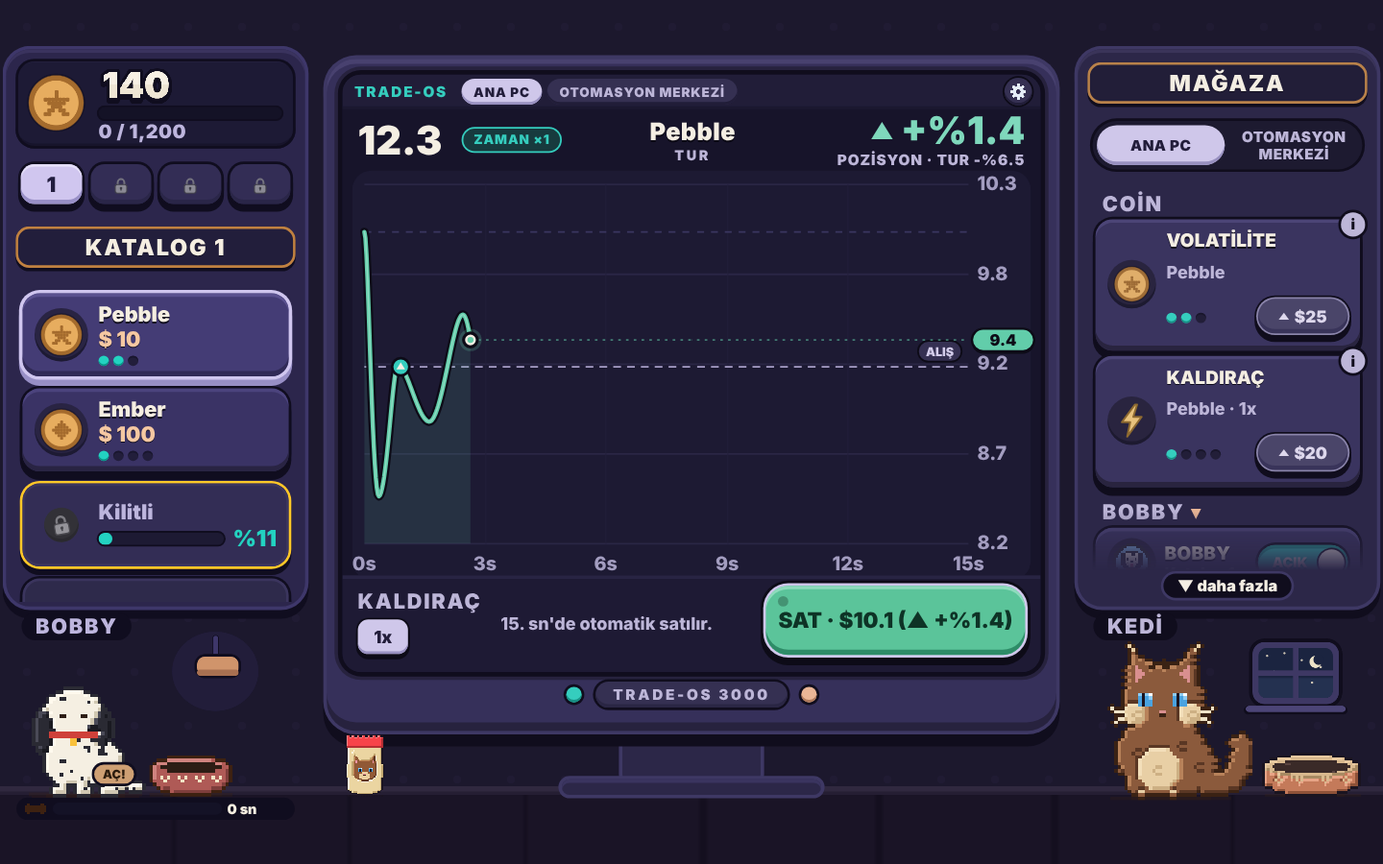
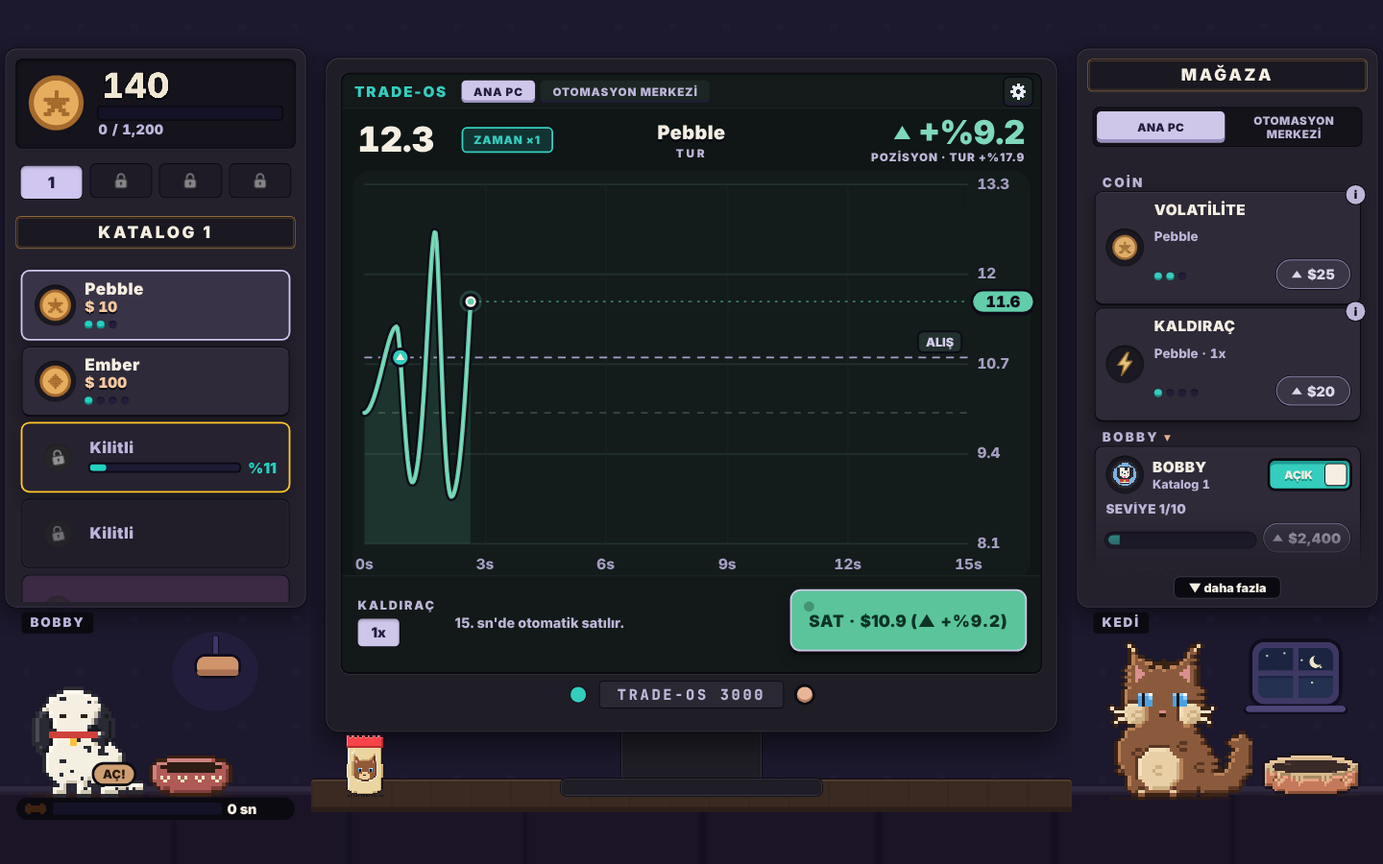
Tasarım Tur2 Adım 5: olgun 'gece yarısı trader masası', masaüstü ölçüleri, odometre bakiye, termal fiş, mama ease-out — smoke 63/63
Claude-Session: https://claude.ai/code/session_01VDVDeJVYoXzWZHeVKGLAfX

diff --git a/index.html b/index.html
@@ -1038,6 +1038,134 @@ body.rm .pl{animation:none!important;transform:translate(-50%,-50%)!important}
 #stage.tel .info{top:12px!important;right:18px!important}#stage.tel #right .go{height:80px!important}#stage.tel #right .sc:not(.bob):not(.rcoin) .sm b{padding-right:60px!important}
 #stage.tel #right .go{z-index:2}#stage.tel .info{z-index:3}
 #cico{image-rendering:auto!important}
+
+/* =====================================================================
+   TUR 2 / ADIM 5 — "Gece yarısı trader masası": olgun malzeme, ince gölge, sıkı tipografi
+   Grafit kasa paneller · cam yeşili terminal ekranı · koyu ceviz masa · kâğıt fiyat etiketi · termal fiş.
+   Köşeler 6–10 px, konturlar 1 px, gölgeler ince (bulanık kısa gölge; glow yok). Masaüstü ölçüleri küçük; telefon (#stage.tel) büyük kalır.
+   ===================================================================== */
+:root{--k-fr:"Inter","SF Pro Text","Segoe UI",system-ui,Roboto,"Helvetica Neue",Arial,sans-serif;
+ --k-hd:"Bahnschrift SemiBold SemiConden","Bahnschrift","DIN Condensed","Avenir Next Condensed","Roboto Condensed","Arial Narrow",var(--k-fr);
+ --k-mono:"JetBrains Mono","SF Mono","Cascadia Mono","Roboto Mono",ui-monospace,Menlo,Consolas,monospace;
+ --k-pn:#24212C;--k-cd:#2E2A37;--k-cdl:#3A3545;--k-cde:#1E1B25;--k-rim:#3A3646;--k-ol:#0B0A10;--k-scr:#0F1615;
+ --m-sh:0 0 0 1px #0B0A10,0 2px 0 #0B0A10,0 6px 14px rgba(0,0,0,.35);--m-hi:inset 0 1px 0 rgba(255,255,255,.06);
+ --m-paper:#E6DDC8;--m-paperd:#B9AE95;--m-ink:#2A2218}
+body{font-variant-numeric:tabular-nums}
+/* paneller: grafit kasa */
+#left::before,#right::before{border-radius:12px!important;background:var(--k-pn)!important;box-shadow:0 0 0 1px #3A3646,0 0 0 2px #0B0A10,0 10px 24px rgba(0,0,0,.45),var(--m-hi)!important}
+#cashp{border-radius:8px!important;background:#15131A!important;box-shadow:inset 0 0 0 1px #0B0A10,inset 0 2px 6px rgba(0,0,0,.5),0 1px 0 rgba(255,255,255,.05)!important}
+#cbar,#ebar,.br.en .sg,#pbs,.tk .lkp .lbar{border-radius:3px!important}
+/* başlık plakaları: gravürlü metal plaka, condensed büyük harf */
+.sign,#sign,#msign,body.soft .sign,#robsec .rsign{border-radius:6px!important;background:#1A1820!important;font-family:var(--k-hd)!important;letter-spacing:3px!important;text-shadow:0 1px 0 #000!important;
+ box-shadow:inset 0 0 0 1px #8E6A42,inset 0 0 0 2px #1A1820,inset 0 0 0 3px #4A3A2C,0 1px 0 rgba(255,255,255,.05)!important}
+.shd,#right .shd{font-family:var(--k-hd)!important;letter-spacing:2.5px!important}
+/* kartlar */
+.tk,body.soft .tk,.sc,body.soft .sc,.rc,body.soft .rc{border-radius:8px!important;background:var(--k-cd)!important;box-shadow:var(--m-sh),var(--m-hi)!important}
+.tk.on,body.soft .tk.on,.tk.boss.on{background:#383344!important;box-shadow:0 0 0 2px var(--k-li),0 2px 0 #0B0A10,0 6px 14px rgba(0,0,0,.35)!important}
+.tk.lk,body.soft .tk.lk,.sc.lk,body.soft .sc.lk{background:#211E28!important;box-shadow:0 0 0 1px #0B0A10,inset 0 0 0 1px #2E2A37!important}
+.tk.lk.nx,body.soft .tk.lk.nx{background:#26222E!important;box-shadow:0 0 0 2px var(--k-au),0 6px 14px rgba(0,0,0,.35)!important}
+.tk.boss,body.soft .tk.boss{background:#33262E!important}
+.tk .bb,body.soft .tk .bb{border-radius:4px!important;transform:none!important;background:#5A3D48!important;color:#EBD3DA!important;text-shadow:none!important;box-shadow:0 0 0 1px #0B0A10!important}
+.sc.can,body.soft .sc.can{box-shadow:0 0 0 1px #5A5470,0 2px 0 #0B0A10,0 6px 14px rgba(0,0,0,.35)!important}
+.tk .ci,.sc .si{background:#1B1921!important;box-shadow:inset 0 1px 3px rgba(0,0,0,.6)!important}
+.tn b,body.soft .tn b,.sm b,body.soft .sm b,.rc .rh b{font-family:var(--k-hd)!important;letter-spacing:.5px!important;text-shadow:none!important}
+/* sekmeler: fiziksel tuş */
+.tb,#tabs .tb{border-radius:6px!important;box-shadow:0 0 0 1px #0B0A10,0 3px 0 #0B0A10,var(--m-hi)!important;background:var(--k-cd)!important}
+.tb.on,#tabs .tb.on{background:var(--k-li)!important;box-shadow:0 0 0 1px #0B0A10,0 1px 0 #0B0A10,inset 0 2px 3px rgba(0,0,0,.25)!important;transform:translateY(2px)}
+.tb.lk,#tabs .tb.lk{background:#1E1B25!important;box-shadow:0 0 0 1px #0B0A10!important}
+#stabs{border-radius:8px!important;background:#15131A!important;box-shadow:inset 0 0 0 1px #0B0A10!important}
+#stabs button,#stabs button.on,.osbar .tabs button{border-radius:5px!important}
+/* fiyat: kâğıt fiyat etiketi (alınabilir) / soluk metal (alınamaz) */
+#right .go{border-radius:4px!important;background:var(--m-paper)!important;color:var(--m-ink)!important;box-shadow:0 0 0 1px #0B0A10,0 2px 0 #0B0A10,0 4px 8px rgba(0,0,0,.3),inset 0 -2px 0 var(--m-paperd)!important;font-family:var(--k-fr)!important}
+#right .go:hover{background:#EFE7D4!important}
+#right .go i.up{border-bottom-color:var(--m-ink)!important}
+#right .go:not([data-dis]):not(.unl):active,#right .go.sq:not(.unl){transform:translateY(2px)!important;box-shadow:0 0 0 1px #0B0A10,0 0 0 #0B0A10,inset 0 -1px 0 var(--m-paperd)!important}
+#right .go[data-dis],#right .go.unl[data-dis]{background:#3A3646!important;color:#DDD7EC!important;box-shadow:0 0 0 1px #8A84AA,0 0 0 2px #0B0A10!important}
+#right .go.unl{border-radius:4px!important;background:#3FA79C!important;box-shadow:0 0 0 1px #0B0A10,0 2px 0 #0B0A10,inset 0 -2px 0 #1E6E66!important}
+.mx,#right .mx,body.soft .mx{border-radius:4px!important}
+.info{box-shadow:0 0 0 1px #0B0A10!important}
+.sw,#right .sw{border-radius:6px!important;box-shadow:inset 0 0 0 1px #0B0A10,inset 0 2px 4px rgba(0,0,0,.4)!important}
+.sw i{border-radius:4px!important;box-shadow:0 0 0 1px #0B0A10,0 1px 2px rgba(0,0,0,.4)!important}
+.br .pbtn,.br.en .pbtn{border-radius:6px!important;box-shadow:0 0 0 1px #0B0A10,0 2px 0 #0B0A10!important}
+/* monitör: mat siyah-grafit kasa, cam ekran */
+#mon{border-radius:14px!important;background:#1F1D25!important;box-shadow:0 0 0 1px #3A3646,0 0 0 2px #0B0A10,0 14px 30px rgba(0,0,0,.5),inset 0 1px 0 rgba(255,255,255,.07)!important}
+.swrap{border-radius:8px!important;box-shadow:0 0 0 2px #0B0A10,0 0 0 3px #2E2B36!important}
+.screen{clip-path:inset(0 round 8px)!important}
+.osbar{background:#131A19!important;box-shadow:inset 0 -1px 0 #22302E!important}
+.osbar .tabs button{background:#1C2624!important}
+.osbar .gearb,#gear,#gear2{border-radius:6px!important;background:#1C2624!important}
+.bstrip{background:#121918!important;box-shadow:inset 0 1px 0 #22302E!important}
+#lcdT{border-radius:4px!important;background:#123331!important}
+#lvr .pbtn{border-radius:5px!important;background:#1C2624!important;box-shadow:0 0 0 1px #0B0A10,0 2px 0 #0B0A10!important}
+#lvr .pbtn.ac{background:var(--k-li)!important;box-shadow:0 0 0 1px #0B0A10,inset 0 2px 3px rgba(0,0,0,.25)!important}
+#main{border-radius:10px!important;font-family:var(--k-hd)!important;letter-spacing:1px!important;text-shadow:0 1px 0 rgba(0,0,0,.35)!important;box-shadow:0 0 0 1px #0B0A10,0 4px 0 #0B0A10,0 8px 16px rgba(0,0,0,.35),inset 0 1px 0 rgba(255,255,255,.25)!important}
+#main:not(:disabled):active,#main.down{transform:translateY(3px)!important;box-shadow:0 0 0 1px #0B0A10,0 1px 0 #0B0A10,inset 0 1px 0 rgba(255,255,255,.2)!important}
+#main.buy{box-shadow:0 0 0 1px #0B0A10,0 4px 0 #0B0A10,0 8px 16px rgba(0,0,0,.35),inset 0 1px 0 rgba(255,255,255,.25)!important}
+#main.sell,#main.sell.dn{box-shadow:0 0 0 2px var(--k-li),0 4px 0 2px #0B0A10,0 8px 16px rgba(0,0,0,.35)!important}
+#main.sell.dn{background:#36323F!important}
+#main:disabled{background:#1C2321!important;box-shadow:none!important;color:#8E9A97!important}
+.chin span{border-radius:4px!important;background:#2A2832!important;box-shadow:0 0 0 1px #0B0A10!important;font-family:var(--k-mono)!important}
+.pled{box-shadow:0 0 0 1px #0B0A10!important}
+.stand{background:#1F1D25!important;box-shadow:0 0 0 1px #3A3646,0 0 0 2px #0B0A10!important}.stand.f{border-radius:6px!important}
+#news{background:#152120!important}#news b{border-radius:4px!important}
+.tile,.tile:nth-child(odd){border-radius:8px!important;background:#131C1B!important;box-shadow:0 0 0 1px #22302E!important}
+.tile.add{box-shadow:0 0 0 1px var(--k-pe)!important}
+#auto{background:var(--k-scr)!important}
+/* masa: koyu ceviz tabla (monitör üstünde durur) */
+#scene .tedge{display:block!important;top:842px!important;height:38px!important;z-index:0;border-radius:4px 4px 0 0;background:#3A2A22!important;background-image:repeating-linear-gradient(90deg,rgba(0,0,0,.08) 0 2px,transparent 2px 46px)!important;
+ box-shadow:inset 0 2px 0 #5A4234,inset 0 -6px 0 #2A1E18,0 -1px 0 #0B0A10!important}
+/* hayvan alanı etiketleri, ipucu, fiş */
+.botp .cap,body.soft .botp .cap{border-radius:4px!important;font-family:var(--k-hd)!important;letter-spacing:2px!important}
+#shint,body.soft #shint{border-radius:6px!important;box-shadow:0 0 0 1px #3A3646!important}
+#scene .mp,.mp{border-radius:10px!important;box-shadow:0 0 0 1px #3A3646,0 0 0 2px #0B0A10,0 16px 40px rgba(0,0,0,.55)!important}
+#scene .mp .pbtn,.mp .pbtn{border-radius:6px!important;box-shadow:0 0 0 1px #0B0A10,0 2px 0 #0B0A10!important}
+/* tur sonu fişi: termal kâğıt */
+#receipt{background:#ECE6D8!important;color:#2A2520!important;font-family:var(--k-mono)!important;font-weight:600!important;border-radius:0!important;padding:12px 16px 18px!important;
+ box-shadow:0 6px 16px rgba(0,0,0,.45)!important;-webkit-mask-image:linear-gradient(135deg,transparent 4px,#000 0) bottom left/8px 8px repeat-x,linear-gradient(#000,#000) top/100% calc(100% - 6px) no-repeat;mask-image:linear-gradient(135deg,transparent 4px,#000 0) bottom left/8px 8px repeat-x,linear-gradient(#000,#000) top/100% calc(100% - 6px) no-repeat}
+#receipt h3,#receipt h3.up,#receipt h3.dn{font-family:var(--k-mono)!important;color:#2A2520!important;letter-spacing:2px!important;text-align:center;border-bottom:2px dashed #9A9284}
+#receipt .rw,#receipt .strip{border-top:1px dashed #B5AD9C!important;color:#2A2520!important}
+#receipt .up{color:#1F6B55!important}#receipt .dn{color:#8A5A2E!important}#receipt .strip{color:#5A5248!important}
+/* ---------- MASAÜSTÜ ölçüleri: zarif, küçük (telefon #stage.tel kuralları ayrı ve büyük kalır) ---------- */
+#stage:not(.tel) .tk,#stage:not(.tel) body.soft .tk{height:78px!important;margin:4px 8px 10px!important;gap:10px!important}
+#stage:not(.tel) .tk .ci{width:48px!important;height:48px!important;padding:4px}
+#stage:not(.tel) .tn b{font-size:19px!important}#stage:not(.tel) .tn .num,#stage:not(.tel) #list .tn .num{font-size:17px!important;margin:0 0 3px!important}
+#stage:not(.tel) .tk.lk .tn b{font-size:18px!important}#stage:not(.tel) .tk .lkp small{font-size:17px}#stage:not(.tel) .tk .lkp .lbar{height:8px}
+#stage:not(.tel) .tk.lk img.lkic{width:32px!important;height:32px!important}
+#stage:not(.tel) .tk .bb{font-size:12px!important;line-height:20px!important;top:-10px!important}
+#stage:not(.tel) .sg i{flex-basis:9px!important;height:9px!important}
+#stage:not(.tel) .tb,#stage:not(.tel) #tabs .tb{height:38px!important;font-size:18px!important}#stage:not(.tel) #tabs{height:50px!important}
+#stage:not(.tel) .sign,#stage:not(.tel) #sign,#stage:not(.tel) #msign{height:38px!important;line-height:38px!important;font-size:19px!important;margin:8px 8px 6px!important}
+#stage:not(.tel) #robsec .rsign{height:36px!important;line-height:36px!important;font-size:15px!important}
+#stage:not(.tel) #cnx{font-size:16px!important}
+#stage:not(.tel) .shd,#stage:not(.tel) #right .shd{font-size:15px!important;margin:10px 4px 2px!important}
+#stage:not(.tel) #stabs button{height:36px!important;font-size:13px!important}
+#stage:not(.tel) .sc{min-height:0!important;padding:10px 12px 12px!important}
+#stage:not(.tel) .sc .si{width:44px!important;height:44px!important}#stage:not(.tel) .sc .si img{width:32px!important;height:32px!important}
+#stage:not(.tel) #right .sc:not(.bob):not(.rcoin){grid-template-columns:44px minmax(0,1fr) auto!important}
+#stage:not(.tel) .sm b,#stage:not(.tel) #right .sm b{font-size:17px!important}
+#stage:not(.tel) .sm .st{font-size:15px!important}
+#stage:not(.tel) #right .go{height:32px!important;font-size:16px!important;min-width:84px!important;padding:0 10px!important}
+#stage:not(.tel) .mx,#stage:not(.tel) #right .mx{font-size:13px!important;line-height:24px!important}
+#stage:not(.tel) .info{width:22px!important;height:22px!important;font-size:13px!important;line-height:22px!important}
+#stage:not(.tel) .sw,#stage:not(.tel) #right .sw{width:92px!important;height:32px!important;font-size:13px!important;line-height:32px!important;padding:0 8px 0 34px!important}
+#stage:not(.tel) .sw.on,#stage:not(.tel) #right .sw.on{padding:0 34px 0 8px!important}
+#stage:not(.tel) .sw i{width:24px!important;height:24px!important;top:4px!important}
+#stage:not(.tel) .br small,#stage:not(.tel) #right .sc.bob .br small{font-size:15px!important}
+#stage:not(.tel) #right .sc.bob .bh .st{font-size:14px!important}
+#stage:not(.tel) .br .pbtn{width:40px!important;height:32px!important}#stage:not(.tel) .br .pbtn img{width:22px!important;height:22px!important}
+#stage:not(.tel) .rc .rh b{font-size:17px!important}
+#stage:not(.tel) .botp .cap{font-size:15px!important;line-height:24px!important;padding:0 10px!important}
+#stage:not(.tel) #bbub{top:34px!important}
+#stage:not(.tel) #shint{font-size:14px!important;line-height:24px!important}
+#stage:not(.tel) .osbar .tabs button{font-size:13px!important;height:26px!important}
+#stage:not(.tel) #hT{font-size:40px!important}#stage:not(.tel) #hN{font-size:22px!important}#stage:not(.tel) #lcdS{font-size:13px!important}#stage:not(.tel) #lcdT{font-size:13px!important}
+#stage:not(.tel) #hP{font-size:38px!important}#stage:not(.tel) #hPs{font-size:13px!important}#stage:not(.tel) #hP[data-d]::before{font-size:20px}
+#stage:not(.tel) #lvr{font-size:14px!important}#stage:not(.tel) #lvr .pbtn{height:32px!important;min-width:48px!important;font-size:16px!important}#stage:not(.tel) #lvr .lvh{font-size:14px}
+#stage:not(.tel) #note{font-size:16px!important}
+#stage:not(.tel) #main{width:270px!important;height:68px!important;font-size:28px}
+#stage:not(.tel) #receipt{font-size:15px!important}#stage:not(.tel) #receipt h3{font-size:18px!important}#stage:not(.tel) #receipt .strip{font-size:13px!important}
+#stage:not(.tel) #news{font-size:17px!important}
+#stage:not(.tel) .screen.bossin #hN::after{font-size:12px;line-height:20px}
 </style><style>/* === TELEFON: hep yatay oyun (dikeyde 90° döndürülür), sayfa kaymaz, çift dokunuşta büyümez === */
 html,body{position:fixed;inset:0;width:100%;height:100%;overflow:hidden;margin:0;overscroll-behavior:none;-webkit-user-select:none;user-select:none;-webkit-touch-callout:none;-webkit-tap-highlight-color:transparent;-webkit-text-size-adjust:100%}
 *{touch-action:manipulation}canvas,img{-webkit-user-drag:none}#list,#shop,.modal .mp,#mb{touch-action:pan-x pan-y;-webkit-overflow-scrolling:touch}
@@ -1580,11 +1708,20 @@ function numTip(u){const v=Number(u)/1e4,fr=u%10000n,full=(u/10000n).toLocaleStr
  e=v>=1?Math.floor(Math.log10(v)+1e-9):0,e3=Math.floor(e/3)*3,nm=NAMES[e3];return `<b>$ ${cp(u)}</b><br>${full}${nm?'<br>≈ '+(+(v/Math.pow(10,e3)).toPrecision(4))+' '+nm:''}`}
 /* v33: eski kart/sayı hover ipuçları kaldırıldı; yeni sistem view_i (yalnız 'i' ikonları) */
 /* K3: para yazısı — yuvarlak kalın yazı, koyu kontur + alt gölge (2x çözünürlük) */
-const KF='ui-rounded, "SF Pro Rounded", "Nunito", "Varela Round", "Arial Rounded MT Bold", "Trebuchet MS", system-ui, sans-serif';
-function ckCash(txt){const cv=$('#cashv'),x=cv.getContext('2d');let fs=84;x.font='900 '+fs+'px '+KF;while(x.measureText(txt).width>440&&fs>40){fs-=4;x.font='900 '+fs+'px '+KF}
- const w=Math.ceil(x.measureText(txt).width)+24,h=104;if(cv.width!==w||cv.height!==h){cv.width=w;cv.height=h}x.clearRect(0,0,w,h);x.font='900 '+fs+'px '+KF;x.textBaseline='middle';x.lineJoin='round';
- const y=h/2-2;x.lineWidth=14;x.strokeStyle='#100D1D';x.strokeText(txt,12,y+6);x.fillStyle='#100D1D';x.fillText(txt,12,y+6);x.strokeText(txt,12,y);x.fillStyle='#EDE5D6';x.fillText(txt,12,y);
- x.save();x.beginPath();x.rect(0,0,w,y-fs*.08);x.clip();x.fillStyle='#F6F0E6';x.fillText(txt,12,y);x.restore()}
+const KF='"Inter", "SF Pro Text", "Segoe UI", system-ui, Roboto, "Helvetica Neue", Arial, sans-serif';
+/* Tur 2/Adım 5: bakiye odometresi — değişen hane eskisi yukarı kayarken yenisi alttan gelir (450 ms, ease-out);
+   haneler sabit genişlikte (tabular), hareket azaltmada anında. */
+const ODO={cur:'',from:'',to:'',t0:0,raf:0};
+function odoDraw(a,b,k){const cv=$('#cashv'),x=cv.getContext('2d'),n=Math.max(a.length,b.length);a=a.padStart(n,' ');b=b.padStart(n,' ');
+ let fs=80;const F=f=>'800 '+f+'px '+KF;x.font=F(fs);const cw=c=>/[0-9 ]/.test(c)?x.measureText('0').width:x.measureText(c).width;
+ const wid=()=>{let w=0;for(let i=0;i<n;i++)w+=Math.max(cw(a[i]),cw(b[i]));return w};while(wid()>440&&fs>40){fs-=4;x.font=F(fs)}
+ const W=Math.ceil(wid())+24,H=104;if(cv.width!==W||cv.height!==H){cv.width=W;cv.height=H}x.clearRect(0,0,W,H);x.font=F(fs);x.textBaseline='middle';x.textAlign='center';x.lineJoin='round';
+ const y=H/2-2,D=fs*.95;let px=12;
+ const put=(c,yy)=>{if(c===' ')return;x.lineWidth=6;x.strokeStyle='#0B0A10';x.strokeText(c,cx,yy+2);x.fillStyle='#0B0A10';x.fillText(c,cx,yy+3);x.fillStyle='#EFE7D6';x.fillText(c,cx,yy)};let cx=0;
+ for(let i=0;i<n;i++){const w=Math.max(cw(a[i]),cw(b[i]));cx=px+w/2;if(a[i]===b[i]||k>=1)put(b[i],y);else{put(a[i],y-D*k);put(b[i],y+D*(1-k))}px+=w}}
+function ckCash(txt){const rm=(S.set&&S.set.rm)||(window.matchMedia&&matchMedia('(prefers-reduced-motion: reduce)').matches),prev=ODO.cur;ODO.cur=txt;cancelAnimationFrame(ODO.raf);
+ if(rm||!prev||prev===txt){odoDraw(txt,txt,1);return}ODO.from=prev;ODO.to=txt;ODO.t0=performance.now();
+ const step=now=>{const k=Math.min(1,(now-ODO.t0)/450);odoDraw(ODO.from,ODO.to,1-Math.pow(1-k,3));if(k<1)ODO.raf=requestAnimationFrame(step)};ODO.raf=requestAnimationFrame(step)}
 /* para sayacı: kısa count-up */
 let cashD=null,cashAf=0,cashLast='';
 function cashAnim(){cashAf=0;const t=Number(S.cash);cashD=t;   /* v46: para anında güncellenir */
@@ -1732,7 +1869,7 @@ function dropEnd(e){if(!G.drag)return;const k=G.drag;G.drag=null;$('#bowl').clas
  else{fl.style.display='none';fl.className='';flsh.style.display='none';if(k==='water'){S.bottles=1;save();ui()}}}
 document.addEventListener('pointerup',dropEnd);document.addEventListener('pointercancel',dropEnd);
 function startDrink(e){if(G.drink)return;const r=$('#bowl').getBoundingClientRect();G.drink={t0:performance.now(),pt:e.pointerType,raf:0};fl.className='pour';flsh.style.display='none';{const T=POURA*Math.PI/180,a=FBW*stK()/2,b=FBH*stK()/2,ox=a*Math.cos(T)-b*Math.sin(T),oy=a*Math.sin(T)+b*Math.cos(T);moveFl(r.left+r.width*.45+ox,r.top-16*stK()+oy)}   /* v42: paketin sol üst köşesi kabın üstünde; gövde sağda */$('#dbar').classList.add('on');pourStart();drinkTick()}
-function drinkTick(){const d=G.drink;if(!d)return;const p=Math.min(1,(performance.now()-d.t0)/4000);setSeg($('#dbar'),Math.floor(p*10),10);BOWL.fill=Math.max(BOWL.fill,p*.95);setBowl(BOWL.fill);if(p>=1)finishDrink();else d.raf=requestAnimationFrame(drinkTick)}
+function drinkTick(){const d=G.drink;if(!d)return;const p=Math.min(1,(performance.now()-d.t0)/4000);setSeg($('#dbar'),Math.floor((1-Math.pow(1-p,3))*10),10);BOWL.fill=Math.max(BOWL.fill,p*.95);setBowl(BOWL.fill);if(p>=1)finishDrink();else d.raf=requestAnimationFrame(drinkTick)}
 function endDrinkUI(){fl.style.display='none';fl.className='';flsh.style.display='none';$('#dbar').classList.remove('on')}
 function cancelDrink(){const d=G.drink;if(!d)return;cancelAnimationFrame(d.raf);G.drink=null;endDrinkUI();S.bottles=1;save();ui()}
 function finishDrink(){const d=G.drink;if(!d)return;G.drink=null;cancelAnimationFrame(d.raf);endDrinkUI();S.cash+=D(2);floatText('+$2',PX,PY,'#4CD08A');BOWL.fill=1;setBowl(1);CAT.eatUntil=performance.now()+7000;save();ui()}
@@ -1928,12 +2065,12 @@ $('#agrid').addEventListener('click',e=>{const tl=e.target.closest('[data-tile]'
 const RSPR={};const rSpr=(i,fr)=>RSPR[i+'_'+fr]||(RSPR[i+'_'+fr]=render(robotGrid(i,fr),1));
 function drawTile(i,now){const cv=$('#tc'+i);if(!cv)return;const tile=cv.parentNode,n=S.rb.length;tile.className='tile'+(i===n?' add':i>n?' lock':'');
  const d=window.devicePixelRatio||1,r=cv.getBoundingClientRect(),W=tile.offsetWidth||200,H=tile.offsetHeight||190,w=Math.max(8,Math.round(r.width*d)),hh=Math.max(8,Math.round(r.height*d));if(cv.width!==w||cv.height!==hh){cv.width=w;cv.height=hh}
- const x=cv.getContext('2d'),k=cv.width/W;x.setTransform(k,0,0,k,0,0);x.fillStyle='#1E1A35';x.fillRect(0,0,W,H);x.textBaseline='middle';x.textAlign='center';
+ const x=cv.getContext('2d'),k=cv.width/W;x.setTransform(k,0,0,k,0,0);x.fillStyle='#131C1B';x.fillRect(0,0,W,H);x.textBaseline='middle';x.textAlign='center';
  if(i>=n){if(i===n&&n<RMAX){const ok=afford(RSLOT[n]);const TF=TEL?30:20;x.fillStyle='#E9B596';x.font='900 46px '+KF;x.fillText('+1',W/2,H/2-30);x.font='900 '+TF+'px '+KF;x.fillText(TT('ROBOT EKLE'),W/2,H/2+10);x.font='900 '+TF+'px '+KF;x.fillStyle=ok?'#F0C9A8':'#BDB6D8';x.fillText('$'+cp(RSLOT[n]),W/2,H/2+10+TF*1.2)}
-  else{rr(x,10,10,W-20,H-20,14);x.setLineDash([8,8]);x.lineWidth=2;x.strokeStyle='#3E3864';x.stroke();x.setLineDash([]);x.fillStyle='#A39DC0';x.font='900 '+(TEL?30:20)+'px '+KF;x.fillText(TT('BOŞ BÖLME'),W/2,H/2)}x.textAlign='left';return}
+  else{rr(x,10,10,W-20,H-20,14);x.setLineDash([8,8]);x.lineWidth=2;x.strokeStyle='#2E3D3A';x.stroke();x.setLineDash([]);x.fillStyle='#A39DC0';x.font='900 '+(TEL?30:20)+'px '+KF;x.fillText(TT('BOŞ BÖLME'),W/2,H/2)}x.textAlign='left';return}
  const R=S.rb[i],rt=RBT[i],c=COINS[R.ci],fr=rt?Math.floor(now/420+i)%2:0;x.textAlign='left';x.imageSmoothingEnabled=false;const IS=TEL?56:30,F1=TEL?30:17,F2=TEL?30:15;x.drawImage(rSpr(i%6,fr),4,4,IS,IS);
  x.fillStyle='#F4EEE3';x.font='900 '+F1+'px '+KF;x.fillText('ROBOT-'+(i+1),IS+8,TEL?18:12);x.fillStyle='#BDB6D8';x.font='800 '+F2+'px '+KF;x.fillText(TT(c.n)+' · '+2**(R.v-1)+'x',IS+8,TEL?48:27);
- const L=6,Rr=W-6,T=TEL?70:40,B=H-(TEL?42:26),PW=Rr-L,PH=B-T;x.strokeStyle='#2A2645';x.lineWidth=1;x.beginPath();for(let j=0;j<=2;j++){const y=Math.round(T+PH*j/2)+.5;x.moveTo(L,y);x.lineTo(Rr,y)}x.stroke();
+ const L=6,Rr=W-6,T=TEL?70:40,B=H-(TEL?42:26),PW=Rr-L,PH=B-T;x.strokeStyle='#22302E';x.lineWidth=1;x.beginPath();for(let j=0;j<=2;j++){const y=Math.round(T+PH*j/2)+.5;x.moveTo(L,y);x.lineTo(Rr,y)}x.stroke();
  if(!rt){x.fillStyle='#A39DC0';x.font='900 '+(TEL?30:17)+'px '+KF;x.textAlign='center';x.fillText(TT(S.rbOn===0?'DURDURULDU':'YENİ TUR…'),W/2,(T+B)/2);x.textAlign='left';return}
  const t=Math.min(15,(now-rt.t0)/1000*rt.sp),N=Math.max(2,Math.round(PW*Math.max(t,.05)/15/1.5)),vs=[];let mn=1,mx=1;for(let j=0;j<=N;j++){const v=ratioAt(rt.K,t*j/N);vs.push(v);if(v<mn)mn=v;if(v>mx)mx=v}
  const rg=Math.max(mx-mn,.1),y0=mn-rg*.15,y1=mx+rg*.15,X=s=>L+PW*s/15,Y=v=>B-(v-y0)/(y1-y0)*PH,up=vs[vs.length-1]>=1,cc='#8CC8EE',cg='140,200,238';
@@ -2539,9 +2676,9 @@ function rr(x,a,b,w,h,r){x.beginPath();x.moveTo(a+r,b);x.arcTo(a+w,b,a+w,b+h,r);
    Renk: pozisyon açıkken oyuncunun ALIŞ fiyatına göre (üstü nane ▲, altı kehribar ▼); pozisyon yokken nötr gök mavisi.
    Tur 2/Adım 3: kırmızı-yeşil yok, nabız/nefes yok, ızgara sade. */
 function drawChart(now){const cv=$('#cv'),x=cv.getContext('2d'),c=COINS[G.ci];x.setTransform(CVS,0,0,CVS,0,0);x.shadowBlur=0;x.setLineDash([]);
- const L=26,R=SW-(TEL?136:84),T=TEL?178:128,B=SH2-(TEL?222:148),PW=R-L,PH=B-T,sp=c.pf,AF=TEL?30:22,act=(G.st==='active'||G.st==='done')&&G.K&&G.K.length,tn=act?G.tn:0,OLC='#0D0B17';
- x.fillStyle=c.boss?'#1F1529':'#17142A';x.fillRect(0,0,SW,SH2);
- rr(x,L-14,T-16,SW-L+2,PH+58,22);x.fillStyle=c.boss?'#281C38':'#1D1A33';x.fill();
+ const L=26,R=SW-(TEL?136:84),T=TEL?178:128,B=SH2-(TEL?222:148),PW=R-L,PH=B-T,sp=c.pf,AF=TEL?30:17,act=(G.st==='active'||G.st==='done')&&G.K&&G.K.length,tn=act?G.tn:0,OLC='#0D0B17';
+ x.fillStyle=c.boss?'#1A1316':'#0F1615';x.fillRect(0,0,SW,SH2);
+ rr(x,L-14,T-16,SW-L+2,PH+58,22);x.fillStyle=c.boss?'#21181C':'#131C1B';x.fill();
  const N=Math.max(2,Math.round(PW*Math.max(tn,.05)/15/1.2)),ys=[];let mn=sp,mx=sp;
  if(act){for(let i=0;i<=N;i++){const v=sp*ratioAt(G.K,tn*i/N);ys.push(v);if(v<mn)mn=v;if(v>mx)mx=v}}
  if(G.pt){mn=Math.min(mn,G.pt.bf);mx=Math.max(mx,G.pt.bf)}
@@ -2549,17 +2686,17 @@ function drawChart(now){const cv=$('#cv'),x=cv.getContext('2d'),c=COINS[G.ci];x.
  if(G.y0===null||G.y0===undefined){G.y0=t0;G.y1=t1}else{G.y0+=(t0-G.y0)*.1;G.y1+=(t1-G.y1)*.1}
  const X=t=>L+PW*t/15,Y=v=>B-(v-G.y0)/(G.y1-G.y0)*PH;
  /* ızgara: yumuşak, kalın ama silik */
- x.lineWidth=2;x.strokeStyle=c.boss?'#3A2A44':'#2A2645';x.beginPath();for(let i=0;i<=4;i++){const y=Math.round(T+PH*i/4);x.moveTo(L,y);x.lineTo(R,y)}x.stroke();
- x.lineWidth=1;x.strokeStyle=c.boss?'#30223A':'#24203C';x.beginPath();for(let s=3;s<15;s+=3){const xx=Math.round(X(s))+.5;x.moveTo(xx,T);x.lineTo(xx,B)}x.stroke();
+ x.lineWidth=2;x.strokeStyle=c.boss?'#35262C':'#22302E';x.beginPath();for(let i=0;i<=4;i++){const y=Math.round(T+PH*i/4);x.moveTo(L,y);x.lineTo(R,y)}x.stroke();
+ x.lineWidth=1;x.strokeStyle=c.boss?'#2C2026':'#1B2725';x.beginPath();for(let s=3;s<15;s+=3){const xx=Math.round(X(s))+.5;x.moveTo(xx,T);x.lineTo(xx,B)}x.stroke();
  x.textBaseline='middle';x.fillStyle='#A39DC0';x.textAlign='left';
  const tagY=Math.min(B-12,Math.max(T+12,act?Y(G.cur):Y(sp)));for(let i=0;i<=4;i++){const v=G.y0+(G.y1-G.y0)*(4-i)/4,tx=fa(Math.max(0,v));if(Math.abs(T+PH*i/4-tagY)<(TEL?40:24))continue;x.font=fitF(x,tx,SW-R-16,AF);x.fillText(tx,R+10,T+PH*i/4)}
  x.font='800 '+AF+'px '+KF;x.textAlign='center';for(let s=0;s<=15;s+=3)x.fillText(s+'s',X(s),B+(TEL?32:24));x.textAlign='left';
  /* başlangıç fiyatı */
- x.setLineDash([8,8]);x.lineWidth=2;x.strokeStyle='#3A3660';x.beginPath();x.moveTo(L,Y(sp));x.lineTo(R,Y(sp));x.stroke();x.setLineDash([]);
+ x.setLineDash([8,8]);x.lineWidth=2;x.strokeStyle='#33433F';x.beginPath();x.moveTo(L,Y(sp));x.lineTo(R,Y(sp));x.stroke();x.setLineDash([]);
  const pos=G.pt&&G.st==='active'?G.pt:null,ref=pos?pos.bf:null,up=pos?G.cur>=ref:true,cc=pos?(up?'#62CDAA':'#C9A07A'):'#8CC8EE',cg=pos?(up?'98,205,170':'201,160,122'):'140,200,238';
  /* alış fiyatı çizgisi (pozisyon açıkken): kâr/zarar referansı */
  if(pos){const by=Y(ref);x.setLineDash([9,7]);x.lineWidth=2;x.strokeStyle='#A89FC8';x.beginPath();x.moveTo(L,by);x.lineTo(R,by);x.stroke();x.setLineDash([]);
-  const lb=LANG==='en'?'BUY':'ALIŞ',lh=TEL?40:24;x.font='900 '+(TEL?30:14)+'px '+KF;const w=x.measureText(lb).width+(TEL?28:18),ly=Math.min(B-12,Math.max(T+12,by));const lx=R-w-8,lyy=ly-lh-6<T?ly+lh/2+6:ly-lh/2-6;rr(x,lx,lyy-lh/2,w,lh,lh/2);x.fillStyle='#353052';x.fill();x.lineWidth=2;x.strokeStyle=OLC;x.stroke();x.fillStyle='#D3CCEA';x.fillText(lb,lx+(TEL?14:9),lyy+1)}
+  const lb=LANG==='en'?'BUY':'ALIŞ',lh=TEL?40:24;x.font='900 '+(TEL?30:14)+'px '+KF;const w=x.measureText(lb).width+(TEL?28:18),ly=Math.min(B-12,Math.max(T+12,by));const lx=R-w-8,lyy=ly-lh-6<T?ly+lh/2+6:ly-lh/2-6;rr(x,lx,lyy-lh/2,w,lh,6);x.fillStyle='#22302E';x.fill();x.lineWidth=2;x.strokeStyle=OLC;x.stroke();x.fillStyle='#D3CCEA';x.fillText(lb,lx+(TEL?14:9),lyy+1)}
  let ex=X(0),ey=Y(sp);
  if(act){x.save();x.beginPath();x.rect(L-8,T-14,R-L+16,B-T+14);x.clip();const pts=ys.map((v,i)=>[X(tn*i/N),Y(v)]);ex=pts[pts.length-1][0];ey=pts[pts.length-1][1];
   const path=()=>{x.beginPath();pts.forEach((p,i)=>i?x.lineTo(p[0],p[1]):x.moveTo(p[0],p[1]))};
@@ -2585,7 +2722,7 @@ function drawChart(now){const cv=$('#cv'),x=cv.getContext('2d'),c=COINS[G.ci];x.
  {const th=TEL?42:26,ty=Math.min(B-12,Math.max(T+12,ey)),tx=fa(G.cur),tw=SW-R-12;rr(x,R+4,ty-th/2+3,tw,th,th/2);x.fillStyle=OLC;x.fill();rr(x,R+4,ty-th/2,tw,th,th/2);x.fillStyle=cc;x.fill();x.lineWidth=2.5;x.strokeStyle=OLC;x.stroke();
   x.fillStyle='#0D0B17';x.font=fitF(x,tx,tw-14,TEL?30:18).replace('800','900');x.textAlign='center';x.fillText(tx,R+4+tw/2,ty+1);x.textAlign='left'}
  if(G.st==='ready'||G.st==='over'){const msg=G.st==='over'?'':LANG==='en'?'READY! PRESS START':'HAZIR! BAŞLA’YA BAS';if(msg){x.font='900 30px '+KF;const w=x.measureText(msg).width+48,cx=(L+R)/2,cy=(T+B)/2-34;
-  rr(x,cx-w/2,cy-26+5,w,52,26);x.fillStyle=OLC;x.fill();rr(x,cx-w/2,cy-26,w,52,26);x.fillStyle='#353052';x.fill();x.lineWidth=3;x.strokeStyle='#4A4570';x.stroke();x.fillStyle='#DDD7EC';x.textAlign='center';x.fillText(msg,cx,cy+1);x.textAlign='left'}}}
+  rr(x,cx-w/2,cy-26+5,w,52,26);x.fillStyle=OLC;x.fill();rr(x,cx-w/2,cy-26,w,52,26);x.fillStyle='#1B2624';x.fill();x.lineWidth=2;x.strokeStyle='#34433F';x.stroke();x.fillStyle='#DDD7EC';x.textAlign='center';x.fillText(msg,cx,cy+1);x.textAlign='left'}}}
 /* Tur 2/Adım 4: SAT etiketi ve başlıktaki büyük yüzde aynı fonksiyondan, aynı karede (fark 0) */
 function satTxt(tr){const v=eq(tr,G.curU);return 'SAT · '+fm(v)+(TEL?'\n':' ')+'('+(v>=tr.st?'▲ ':'▼ ')+pcs(Number(v-tr.st)/Number(tr.st))+')'}
 function setMainLab(txt){const lab=$('#mlab'),M=$('#main');if(lab.dataset.t===txt&&lab.textContent)return;lab.dataset.t=txt;lab.textContent=txt;let s=36;lab.style.fontSize='';M.style.fontSize='';if(!TEL)while(M.scrollWidth>M.clientWidth&&s>18){s--;M.style.fontSize=s+'px'}}

diff --git a/docs/tasarim/canli/tur-2.md b/docs/tasarim/canli/tur-2.md
@@ -272,3 +272,33 @@ Yeni yön gelirse bunları geri alabilirim: `ICONS` / `ICN` vektör bloğu ve `B
 **Psikologlara sorular**
 1. Telefonda yazılar büyüdü, buna karşılık listede aynı anda daha az kart görünüyor (solda yaklaşık 2,5 kart, mağazada 2 kart). Bu takas kabul edilebilir mi?
 2. Telefonda SAT etiketinin iki satır olması (fiyat / yüzde) okunuyor mu, yoksa telefonda yalnız yüzde mi gösterilsin?
+
+## Adım 5 — Tasarımcı: Notlar
+
+Yön: "Gece yarısı trader masası". Düzen ve koyu oda korundu; olgunlaştırıldı. Smoke 63/63, konsol temiz.
+
+1. **Mama çubuğu:** Dolma gösterimi ease-out (1−(1−p)³): başta hızlı, sonra yavaş. Toplam süre (4 sn) ve bitiş mantığı aynı; yalnız gösterilen dolum değişti.
+2. **Masaüstü ölçüleri küçüldü** (yalnız `#stage:not(.tel)`; telefon `#stage.tel` kuralları ve ≥12 px aynen sürüyor). 1440x900'de gerçek boyutlar:
+   - kart başlığı ~17 px, fiyat ~15 px, ikincil yazı ~13 px
+   - coin kartı 96 → 78 px
+   - fiyat etiketi 46 → 32 px
+   - BAŞLA 300x80 → 270x68
+   - grafik eksen yazısı 22 → 17 px
+3. **Bakiye odometresi:** Para değişince değişen haneler sayaç gibi kayıyor (eski hane yukarı, yeni hane alttan; 450 ms, ease-out). Haneler sabit genişlikte. Hareket azaltmada (ayar veya sistem tercihi) anında değişiyor. Sayfa genelinde `font-variant-numeric: tabular-nums`, yani rakamlar titremiyor.
+4. **Malzeme:**
+   - Paneller ve monitör mat grafit kasa (1 px açık kenar + ince bulanık gölge; kalın cartoon alt gölge yok).
+   - Köşeler 4–14 px.
+   - Ekran cam yeşili terminal: grafik ve robot bölmeleri de bu zeminde.
+   - Monitörün altında koyu ceviz bir masa tablası var.
+   - Başlıklar gravürlü metal plaka gibi (condensed büyük harf, ince bakır kenar).
+   - Sekmeler fiziksel tuş gibi; seçili olan basılı durur.
+   - Fiyatlar kâğıt fiyat etiketi (krem kâğıt, mürekkep yazı); alınamaz olan soluk metal.
+   - Yazı yığını yuvarlak fontlardan Inter / sistem sans'a geçti; başlıklarda condensed (Bahnschrift/DIN/Roboto Condensed varsa).
+5. **Tur sonu fişi:** Termal kâğıt (krem, monospace, kesikli ayraçlar, alt kenarı tırtıklı).
+6. Kâr/zarar dili, tek altın (sıradaki kilitli kart), zararda alarm yok ve değişmezler aynen sürüyor.
+
+**Yarım kalan / sonraya:**
+- Ekrandaki "HAZIR! BAŞLA'YA BAS" hapı hâlâ yuvarlak.
+- Bakiye ikonu hâlâ çizilmiş coin; gerçek madeni para ya da banknot hissi verilmedi.
+- Masada klavye gibi küçük nesneler yok.
+- Ana menü ve final sahnesi yeni malzeme diline geçmedi.
